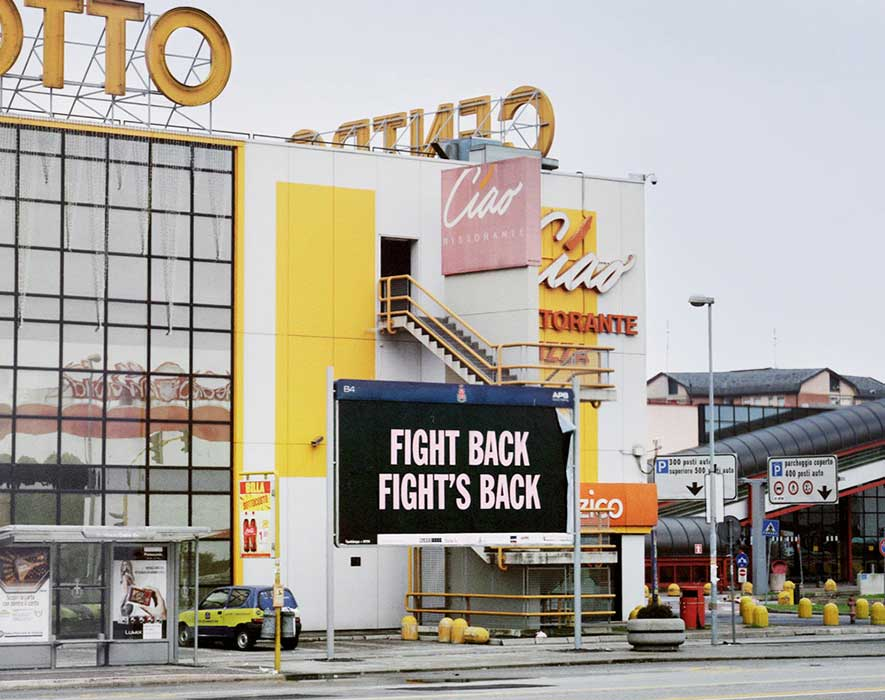
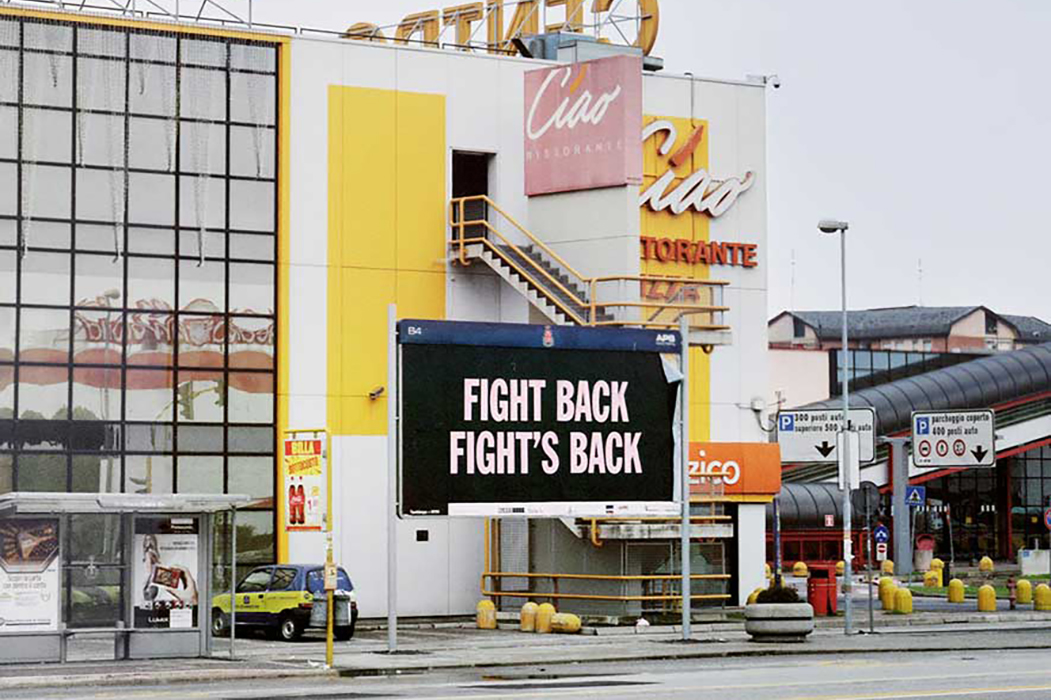
immagine 6

diff --git a/lightbox.js b/lightbox.js
@@ -2880,7 +2880,7 @@ $(function() {
         "id": 6,
         "items": [{
             "img": "6/1-Fondazione_March-Photo-Tankboys.jpg",
-            "width": 885,
+            "width": 1051,
             "height": 700,
             "caption": "Fondazione March | Ph © Tankboys"
           }
